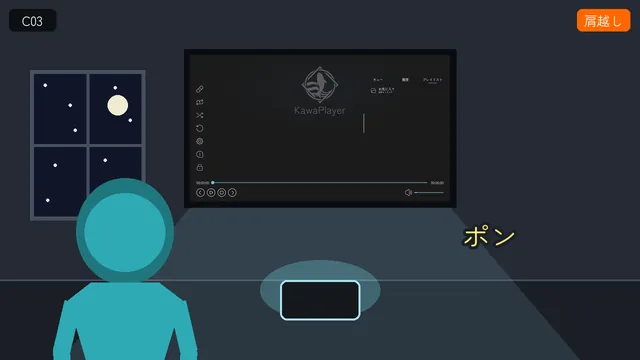
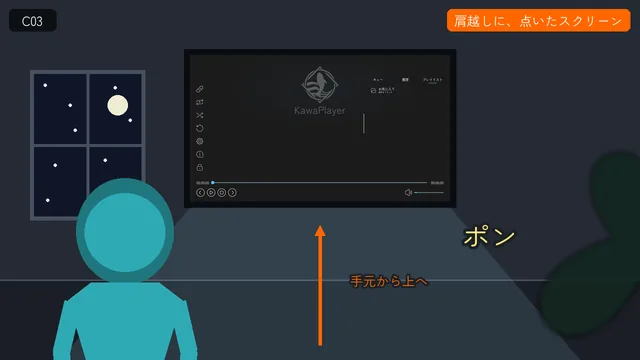
docs(design): open the intro video on a close shot that follows MAO (#262)
The first seconds decide whether people keep watching, so the opening
now draws them in: the camera stays close beside MAO as she walks past
plants, she touches the tablet, and the wall screen comes on. The
grade leans to night blue and purple. The opening keeps its 8 seconds.

Claude-Session: https://claude.ai/code/session_014UgSPcxLDoFJhLM3Stmszr

Changed region(s): [[0.4062, 0.6417, 0.6875, 0.9472], [0.6875, 0.0, 0.9688, 0.0917], [0.8438, 0.7639, 1.0, 0.7944]]

diff --git a/docs/design/262-intro-video/images/frames.py b/docs/design/262-intro-video/images/frames.py
@@ -259,11 +259,6 @@ def sofa(im, mode=NIGHT):
     d.rounded_rectangle((880, 590, 970, 720), 26, fill=darker(mode["sofa"], 0.85))
 
 
-def desk(im, mode=NIGHT):
-    d = ImageDraw.Draw(im)
-    d.rectangle((900, 470, 1240, 488), fill=(92, 70, 56))
-    d.rectangle((920, 488, 936, 600), fill=(72, 54, 44))
-    d.rectangle((1204, 488, 1220, 600), fill=(72, 54, 44))
 
 
 def person(im, cx, base, h, col, label=None, twin=False, arm=None):
@@ -422,33 +417,87 @@ def split(im, left, right, labels, y=130):
 # --------------------------------------------------------------------- the cuts
 
 
+def leaf(d, cx, cy, length, width, angle, fill):
+    """A leaf: a pointed oval along angle (degrees)."""
+    a = math.radians(angle)
+    pts = []
+    for k in range(25):
+        t = k / 24 * math.pi * 2
+        x = math.cos(t) * length / 2
+        y = math.sin(t) * width / 2 * (1 - 0.35 * math.cos(t))
+        pts.append((cx + x * math.cos(a) - y * math.sin(a), cy + x * math.sin(a) + y * math.cos(a)))
+    d.polygon(pts, fill=fill)
+
+
+def foliage(im, spots, blur=5, fill=(18, 38, 32, 235)):
+    """Leaves close to the camera, out of focus: spots are (x, y, length, angle)."""
+    layer = Image.new("RGBA", im.size, (0, 0, 0, 0))
+    d = ImageDraw.Draw(layer)
+    for x, y, length, angle in spots:
+        leaf(d, x, y, length, length * 0.5, angle, fill)
+    im.alpha_composite(layer.filter(ImageFilter.GaussianBlur(blur)))
+
+
+def night_room_blur(im):
+    """The room behind, out of focus: the window's city lights and the dark wall screen."""
+    back = gradient(W, H, [(44, 50, 78), (62, 56, 96), (34, 34, 56)])
+    d = ImageDraw.Draw(back)
+    d.rectangle((860, 60, 1280, 520), fill=(52, 70, 110))
+    for k in range(40):
+        x = 880 + (k * 97) % 380
+        y = 300 + (k * 53) % 200
+        d.rectangle((x, y, x + 10, y + 6), fill=(230, 210, 150))
+    d.rectangle((60, 140, 420, 360), fill=(16, 18, 26))
+    im.alpha_composite(back.filter(ImageFilter.GaussianBlur(9)))
+
+
 def c01():
-    im = new(NIGHT["wall"])
-    room(im)
-    desk(im)
+    im = new((40, 44, 70))
+    night_room_blur(im)
     d = ImageDraw.Draw(im)
-    d.rounded_rectangle((1010, 458, 1110, 472), 4, fill=(150, 154, 160))
-    sofa(im)
-    person(im, 1150, 690, 380, A_COL, "MAO")
-    zoom(im, (320, 70, 960, 430))
-    note(im, "ゆっくり前へ")
+    dark = darker(A_COL, 0.55)
+    # MAO from the side, walking to the right; the head runs off the top.
+    d.polygon([(560, -40), (300, 10), (90, 120), (40, 210), (170, 190), (90, 290), (260, 250),
+               (380, 330), (470, 300), (560, 160)], fill=dark)
+    d.ellipse((520, -150, 720, 60), fill=A_COL)
+    d.polygon([(700, -10), (735, 30), (705, 45)], fill=A_COL)
+    d.polygon([(500, 90), (690, 100), (740, 430), (720, H), (440, H), (450, 420)], fill=A_COL)
+    d.line([(540, 150), (470, 330), (430, 470)], fill=darker(A_COL, 0.85), width=62, joint="curve")
+    d.ellipse((395, 440, 465, 510), fill=darker(A_COL, 0.85))
+    d.line([(660, 160), (720, 330), (790, 440)], fill=A_COL, width=62, joint="curve")
+    d.ellipse((755, 410, 825, 480), fill=A_COL)
+    foliage(im, [(40, 380, 260, 70), (130, 520, 300, 35), (40, 640, 280, -20), (210, 690, 240, 60),
+                 (1180, 560, 280, -40), (1250, 420, 260, 80), (1100, 690, 260, 10)])
+    arrow(im, (440, 640), (820, 640))
+    text(im, (630, 600), "歩く", 30, fill=ORANGE, anchor="mm", stroke=4)
+    arrow(im, (860, 120), (1060, 120))
+    text(im, (960, 160), "カメラも並んで右へ", 26, fill=ORANGE, anchor="mm", stroke=4)
+    note(im, "寄り・横から追う")
     return im
 
 
 def c02():
-    im = new((30, 34, 42))
+    im = new((40, 44, 70))
+    night_room_blur(im)
     d = ImageDraw.Draw(im)
-    d.rectangle((0, 330, W, H), fill=(84, 62, 48))
-    d.line((0, 330, W, 330), fill=(110, 84, 66), width=4)
-    d.rounded_rectangle((300, 400, 900, 640), 44, fill=(150, 155, 162), outline=(190, 194, 200), width=5)
-    place(im, logo(150, (214, 218, 224)), (525, 445, 675, 595))
-    overlay(im, lambda o: o.polygon([(380, 400), (470, 400), (330, 640), (300, 640), (300, 560)],
-                                    fill=(255, 255, 255, 40)))
-    d.polygon([(W, 470), (W, 620), (1000, 590), (960, 520)], fill=darker(A_COL, 0.8))
-    d.rounded_rectangle((850, 480, 1010, 600), 50, fill=A_COL)
-    d.rounded_rectangle((820, 520, 900, 560), 20, fill=A_COL)
-    arrow(im, (1110, 420), (1110, 250))
-    text(im, (1090, 330), "持ち上げる", 28, fill=ORANGE, anchor="rm")
+    d.polygon([(0, 420), (W, 380), (W, H), (0, H)], fill=(78, 58, 50))
+    d.line((0, 420, W, 380), fill=(110, 84, 70), width=5)
+    tab = [(330, 470), (850, 440), (900, 610), (300, 650)]
+    d.polygon(tab, fill=(12, 14, 18), outline=(130, 136, 144), width=5)
+    scr = [(352, 482), (828, 455), (870, 598), (326, 634)]
+    d.polygon(scr, fill=(22, 30, 40))
+    def ripple(o):
+        for k in range(3):
+            r = 40 + k * 42
+            o.ellipse((610 - r, 548 - r * 0.45, 610 + r, 548 + r * 0.45), outline=(140, 235, 245, 200 - k * 55), width=5)
+    overlay(im, ripple)
+    d.polygon([(760, 0), (1000, 0), (700, 470), (640, 430)], fill=darker(A_COL, 0.8))
+    d.rounded_rectangle((600, 400, 720, 500), 40, fill=A_COL)
+    d.line((640, 470, 612, 545), fill=A_COL, width=30)
+    d.ellipse((597, 530, 627, 560), fill=A_COL)
+    foliage(im, [(1170, 300, 280, -50), (1240, 470, 260, 60), (1120, 640, 300, 20)])
+    arrow(im, (520, 300), (575, 470))
+    text(im, (500, 270), "触れる", 30, fill=ORANGE, anchor="mm", stroke=4)
     note(im, "手元の大写し")
     return im
 
@@ -456,12 +505,12 @@ def c02():
 def c03():
     im = new(NIGHT["wall"])
     room(im, screen=guide("screen/controls.webp"), glow=True)
-    overlay(im, lambda o: o.ellipse((520, 520, 760, 640), fill=(120, 230, 240, 70)))
     person(im, 250, 1120, 760, A_COL)
-    d = ImageDraw.Draw(im)
-    d.rounded_rectangle((560, 560, 720, 640), 14, fill=(20, 24, 30), outline=(170, 230, 240), width=4)
+    foliage(im, [(1200, 560, 280, -40), (1260, 420, 240, 70)])
     sfx(im, (980, 470), "ポン", 56)
-    note(im, "肩越し")
+    arrow(im, (640, 690), (640, 450))
+    text(im, (700, 560), "手元から上へ", 26, fill=ORANGE, anchor="lm", stroke=4)
+    note(im, "肩越しに、点いたスクリーン")
     return im
 
 

diff --git a/docs/design/262-intro-video/README.md b/docs/design/262-intro-video/README.md
@@ -9,7 +9,7 @@
 
 ## 要旨
 
-KawaPlayer を紹介する、約 75 秒の動画の絵コンテである。VRChat で遊ぶ人に向けて、KawaPlayer のあるワールドで何ができるか、何が楽しいかを伝える。特定の版の紹介ではない。夜の部屋で MAO がタブレットを手に取り、スクリーンが点くところから始まる。続いて、KawaPlayer らしい機能を 4 つの章で見せる：VHub のプレイリスト、みんなで同じ映像、タブレット、自動再生。最後に、2 人で観る部屋の引きとキャッチコピー、KawaPlayer の終わりの画面で締め、暗転のあとにクレジットを出す。ナレーションは入れず、テロップ・吹き出し・BGM で進める。カットは 20 で、尺は 74.5 秒である。
+KawaPlayer を紹介する、約 75 秒の動画の絵コンテである。VRChat で遊ぶ人に向けて、KawaPlayer のあるワールドで何ができるか、何が楽しいかを伝える。特定の版の紹介ではない。夜の部屋を歩く MAO にカメラが寄って追い、MAO がタブレットに触れるとスクリーンが点くところから始まる。続いて、KawaPlayer らしい機能を 4 つの章で見せる：VHub のプレイリスト、みんなで同じ映像、タブレット、自動再生。最後に、2 人で観る部屋の引きとキャッチコピー、KawaPlayer の終わりの画面で締め、暗転のあとにクレジットを出す。ナレーションは入れず、テロップ・吹き出し・BGM で進める。カットは 20 で、尺は 74.5 秒である。
 
 **キーワード：** 紹介動画、絵コンテ、HyperFrames、Unity Recorder
 
@@ -50,7 +50,7 @@ KawaPlayer で何ができるのか、何が楽しいのかを、文章を読ま
 
 いくつかの紹介動画を見て、次の流れにした。
 
-1. 映画のような始まり。
+1. 映画のような始まり。キャラクターの寄りをカメラが追い、キャラクターが何かに触れたところで演出が始まる。最初の数秒で、どんな動画かと興味を持たせ、途中で離れる人を減らす。
 2. 題名。
 3. 機能ごとの短い場面。左下の見出しに、番号と機能の名前を出す。
 4. 締めの言葉と案内。
@@ -84,6 +84,7 @@ KawaPlayer で何ができるのか、何が楽しいのかを、文章を読ま
 ### 2.3 舞台
 
 - **場所：** テスト用のワールド（KawaPlayer Testing Chamber）の部屋 1 つで通す。夜の部屋にし、C17（次の日）だけは昼にする。
+- **光と色：** 夜の窓の光とスクリーンの光で照らす。全体の色は青紫に寄せる（動画だけの演出）。
 - **整え方：** 観葉植物を置き、壁や床のマテリアルとテクスチャを替えて、撮影に向く部屋にする。
 - **足したもの：** 動画だけの演出を除いて、実際のワールドにも入れて公開する（2026-10-17 のレビュー）。動画だけの演出（撮影用のライト、小道具など）は分けて置き、公開の前に外す。
 - **素材の規約：** 部屋は購入した素材なので、映像に出してよいかを撮影の前に規約で確かめる。足す植物やテクスチャも、ワールドで配ってよく、映像に出してよいものを選ぶ。
@@ -140,9 +141,9 @@ KawaPlayer で何ができるのか、何が楽しいのかを、文章を読ま
 
 | カット | 画面 | 内容・動き | テロップ・吹き出し | 音 | 尺 |
 | --- | --- | --- | --- | --- | --- |
-| **C01**<br>0:00 | <img src="images/c01.webp" width="320" alt="C01：夜の部屋。消えたスクリーン、窓の星空、机のそばの MAO"> | 夜の部屋。窓に星空、壁のスクリーンは消えている。MAO が机のほうへ歩いてくる。カメラはゆっくり前へ。〔Unity〕 | なし | 部屋の静かな音。BGM の前奏を小さく | 3.0 秒 |
-| **C02**<br>0:03 | <img src="images/c02.webp" width="320" alt="C02：机のタブレットの大写し。背面のロゴと、持ち上げる手"> | 机のタブレットの大写し。背面の銀のロゴが光を返す。MAO の手が入ってきて、持ち上げる。〔Unity〕 | なし | 持ち上げる音 | 2.0 秒 |
-| **C03**<br>0:05 | <img src="images/c03.webp" width="320" alt="C03：MAO の肩越しに、点いたスクリーン"> | MAO の肩越し。タブレットに触れると壁のスクリーンが点き、待ち受けのロゴが浮かぶ。部屋がスクリーンの光で明るくなる。〔Unity〕 | なし | 起動の音（ポン）。BGM が本編へ | 3.0 秒 |
+| **C01**<br>0:00 | <img src="images/c01.webp" width="320" alt="C01：歩く MAO の寄りを、カメラが横から追う"> | MAO の寄り。窓のそばを歩く MAO を、カメラが横に並んで同じ速さで追う。頭は画面の上で切れる構図にし、揺れる髪と肩で見せる。手前を観葉植物の葉がぼけて流れる。夜の青紫の光。〔Unity：歩きとカメラの動きは Timeline〕 | なし | 部屋の静かな音と足音。BGM の前奏を小さく | 3.5 秒 |
+| **C02**<br>0:03.5 | <img src="images/c02.webp" width="320" alt="C02：カウンターのタブレットに指で触れる"> | 窓際のカウンターに置いたタブレットへ、MAO が手を伸ばして画面に触れる。触れたところから光の輪が広がる。〔Unity〕 | なし | 触れる音（タッ） | 2.0 秒 |
+| **C03**<br>0:05.5 | <img src="images/c03.webp" width="320" alt="C03：MAO の肩越しに、点いたスクリーン"> | カメラが手元から上へ振れ、MAO の肩越しに壁のスクリーンを映す。スクリーンが点いて待ち受けのロゴが浮かび、部屋がスクリーンの光で明るくなる。〔Unity〕 | なし | 起動の音（ポン）。BGM が本編へ | 2.5 秒 |
 
 ### 題名
 
